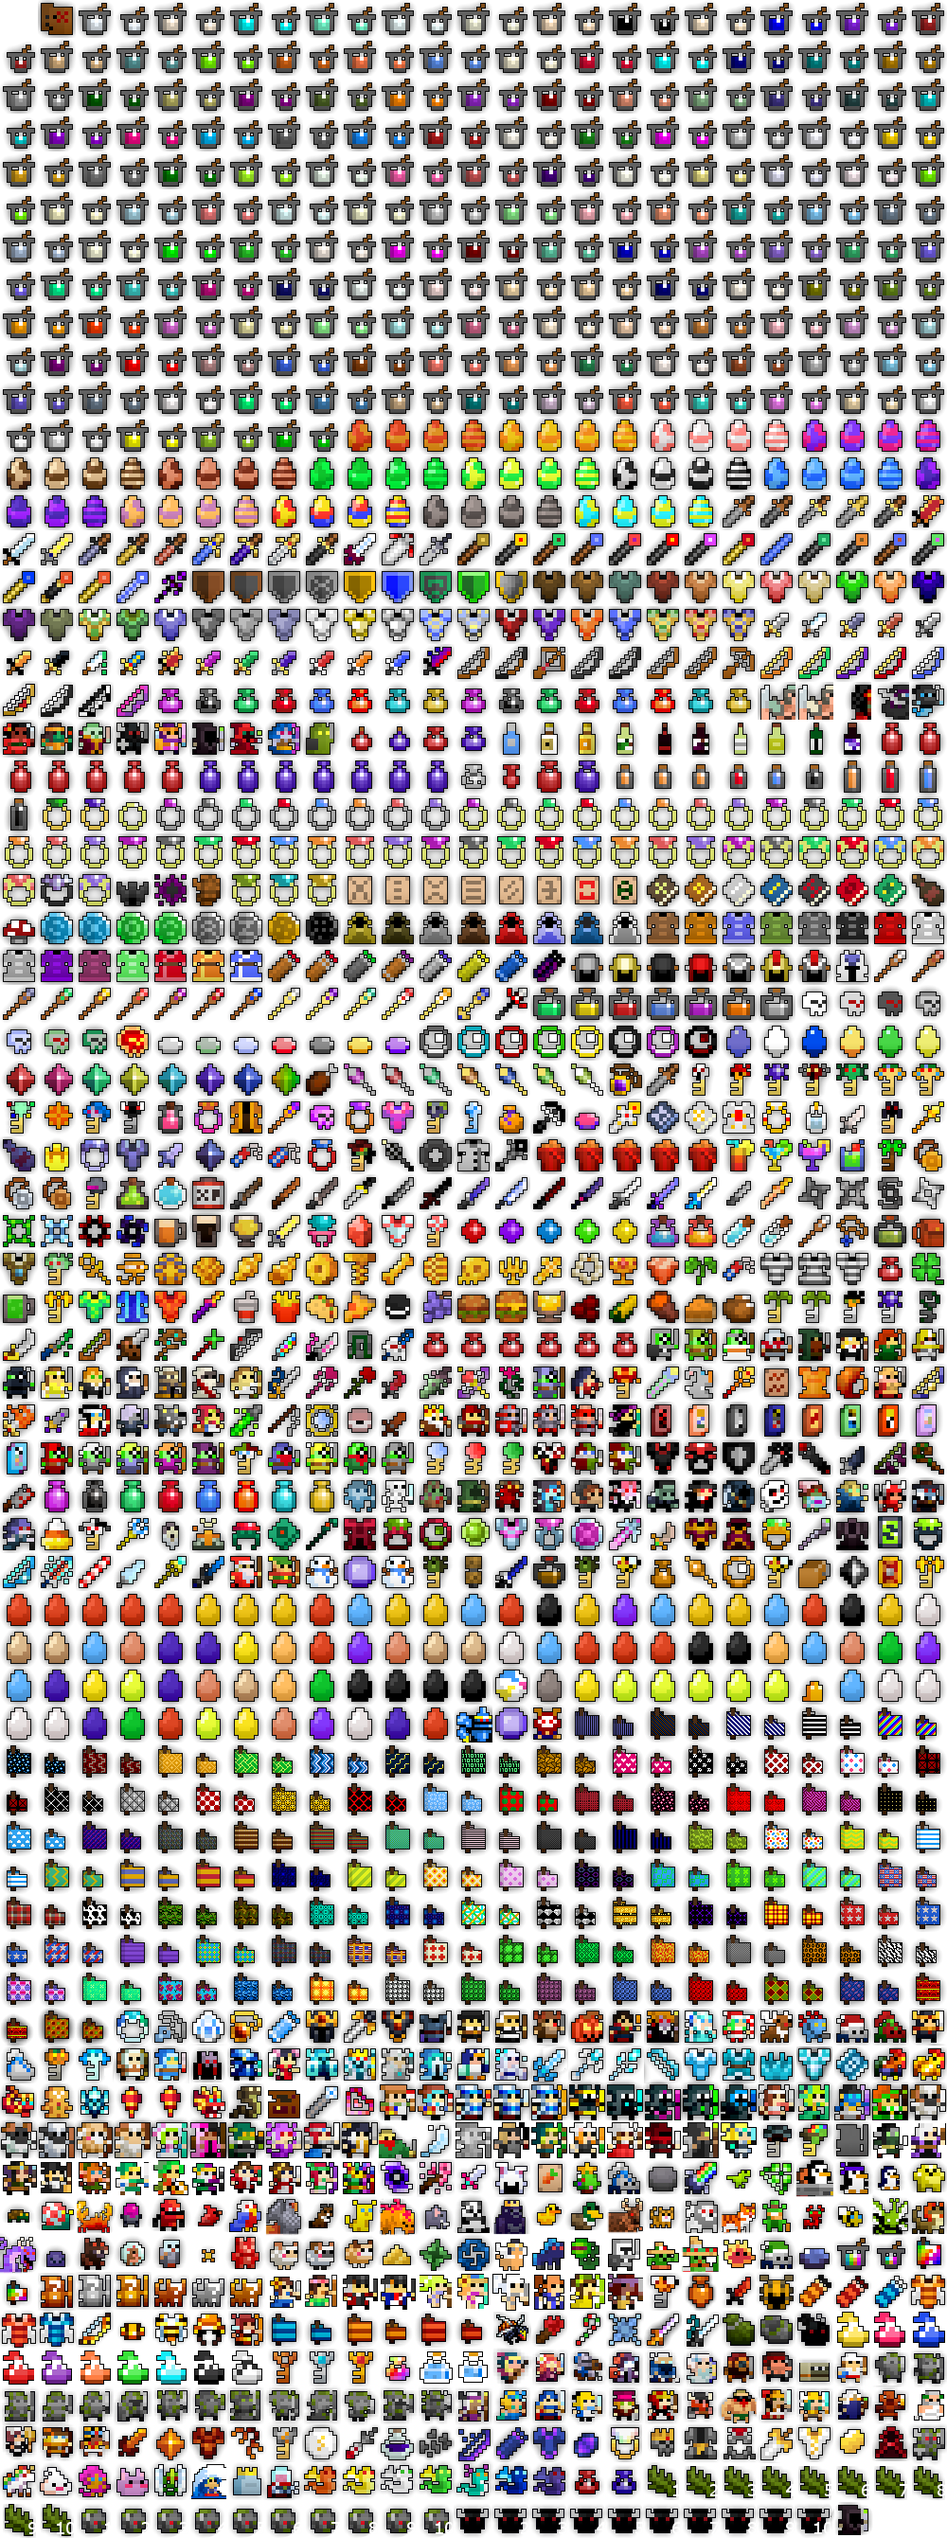
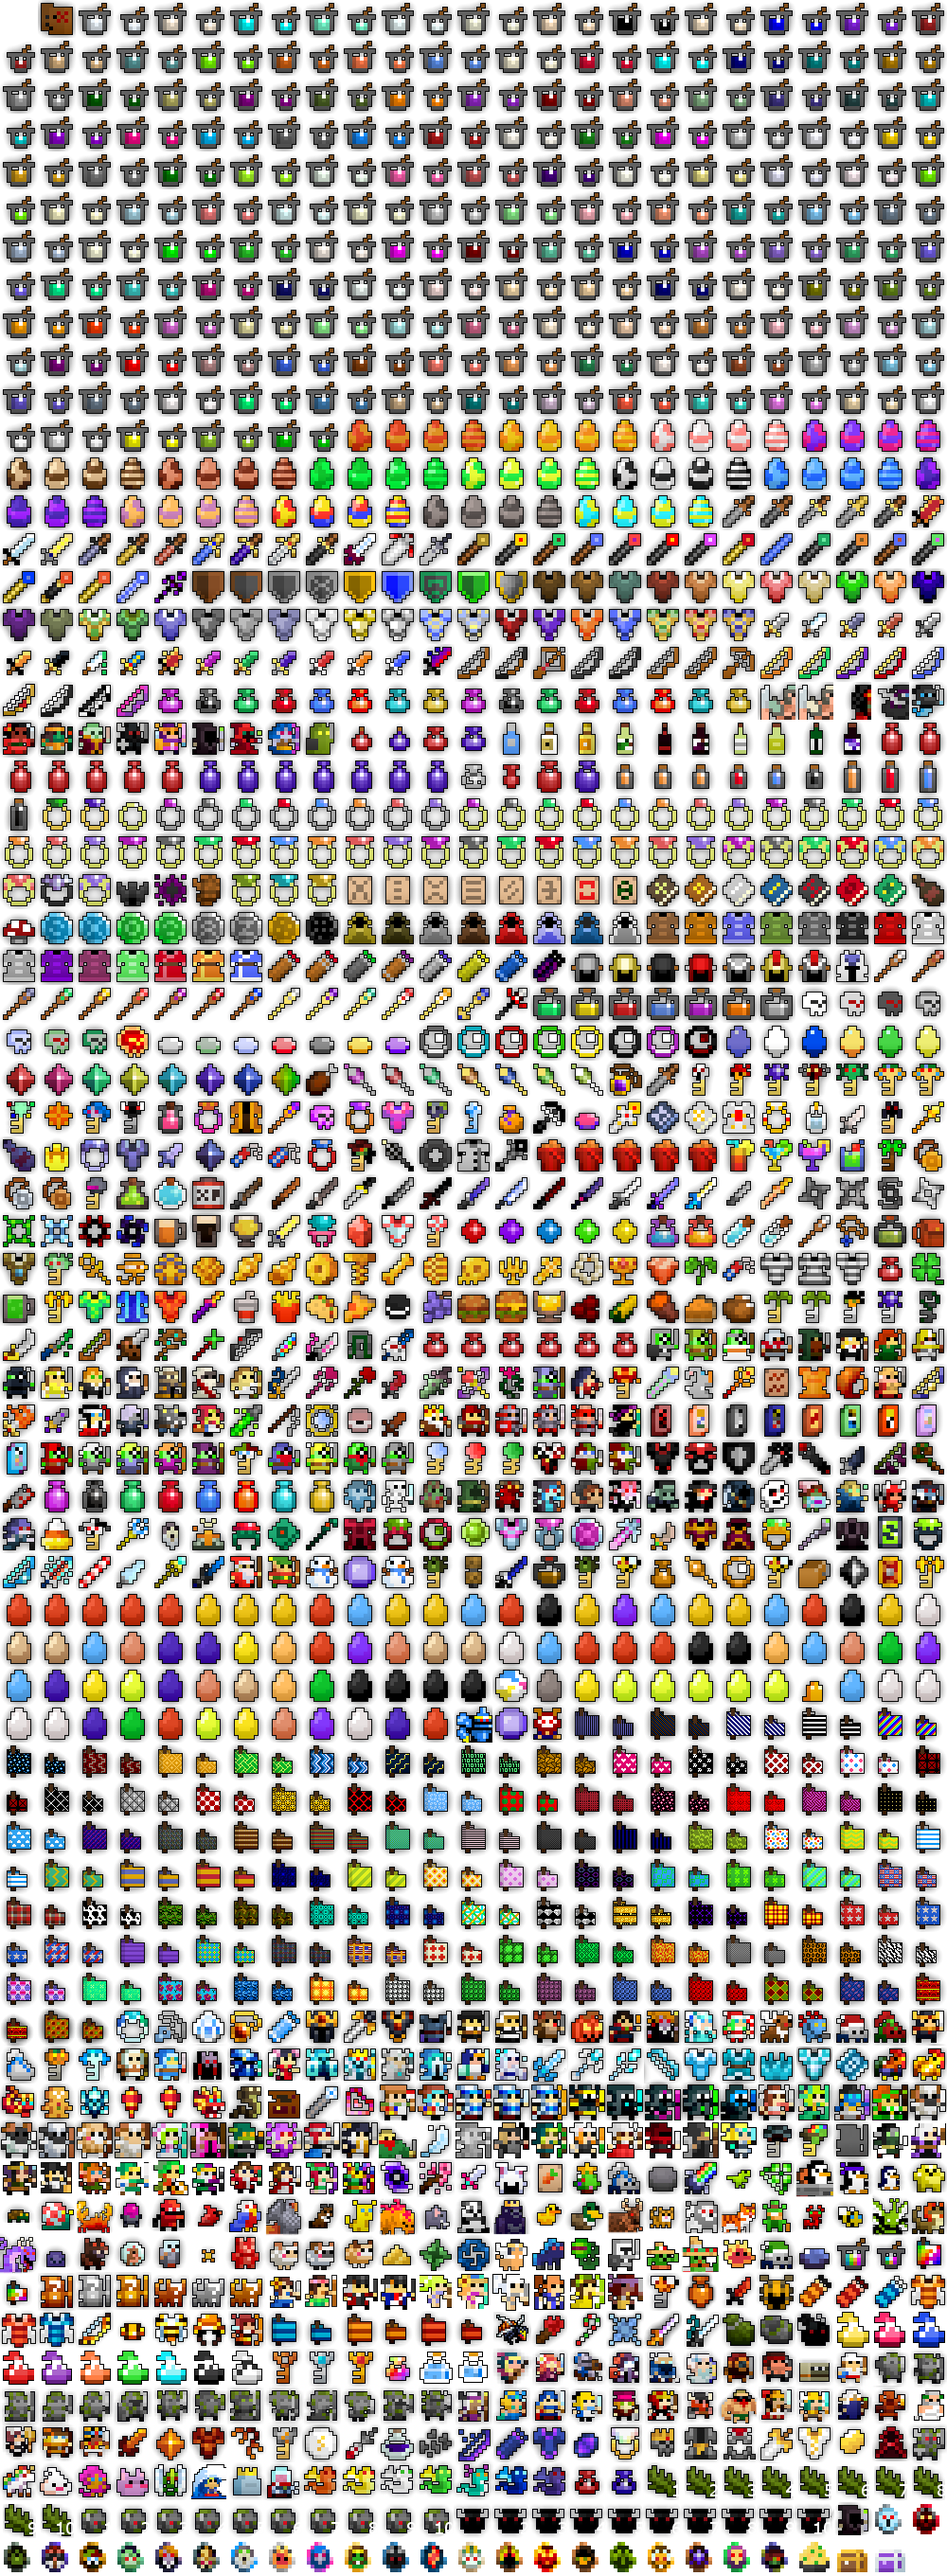
v0.7.6 - ROTMG X17.0.0

diff --git a/lib/constants.js b/lib/constants.js
@@ -1726,37 +1726,63 @@ items = {
     0x4c48: ["Baby Purple Drake Pet Stone", 10, -1, 560, 2600, 0, 2000],
     0x4c4f: ["HP Pot Pet Stone", 10, -1, 600, 2600, 0, 2000],
     0x4c52: ["MP Pot Pet Stone", 10, -1, 640, 2600, 0, 2000],
-    0x99f: ["Moss Token x1", 10, -1, 680, 2600, 0, 0],
-    0x9a0: ["Moss Token x2", 10, -1, 720, 2600, 0, 0],
-    0x9a1: ["Moss Token x3", 10, -1, 760, 2600, 0, 0],
-    0x9a2: ["Moss Token x4", 10, -1, 800, 2600, 0, 0],
-    0x9a3: ["Moss Token x5", 10, -1, 840, 2600, 0, 0],
-    0x9a4: ["Moss Token x6", 10, -1, 880, 2600, 0, 0],
-    0x9a5: ["Moss Token x7", 10, -1, 920, 2600, 0, 0],
-    0x9a6: ["Moss Token x8", 10, -1, 960, 2600, 0, 0],
-    0x9a7: ["Moss Token x9", 10, -1, 0, 2640, 0, 0],
-    0x9a8: ["Moss Token x10", 10, -1, 40, 2640, 0, 0],
-    0x9a9: ["Stone Token x1", 10, -1, 80, 2640, 0, 0],
-    0x9aa: ["Stone Token x2", 10, -1, 120, 2640, 0, 0],
-    0x9ab: ["Stone Token x3", 10, -1, 160, 2640, 0, 0],
-    0x9ac: ["Stone Token x4", 10, -1, 200, 2640, 0, 0],
-    0x9ad: ["Stone Token x5", 10, -1, 240, 2640, 0, 0],
-    0x9ae: ["Stone Token x6", 10, -1, 280, 2640, 0, 0],
-    0x9af: ["Stone Token x7", 10, -1, 320, 2640, 0, 0],
-    0x9b0: ["Stone Token x8", 10, -1, 360, 2640, 0, 0],
-    0x9b1: ["Stone Token x9", 10, -1, 400, 2640, 0, 0],
-    0x9b2: ["Stone Token x10", 10, -1, 440, 2640, 0, 0],
-    0x9b3: ["Oryx Token x1", 10, -1, 480, 2640, 0, 0],
-    0x9b4: ["Oryx Token x2", 10, -1, 520, 2640, 0, 0],
-    0x9b5: ["Oryx Token x3", 10, -1, 560, 2640, 0, 0],
-    0x9b6: ["Oryx Token x4", 10, -1, 600, 2640, 0, 0],
-    0x9b7: ["Oryx Token x5", 10, -1, 640, 2640, 0, 0],
-    0x9b8: ["Oryx Token x6", 10, -1, 680, 2640, 0, 0],
-    0x9b9: ["Oryx Token x7", 10, -1, 720, 2640, 0, 0],
-    0x9ba: ["Oryx Token x8", 10, -1, 760, 2640, 0, 0],
-    0x9bb: ["Oryx Token x9", 10, -1, 800, 2640, 0, 0],
-    0x9bc: ["Oryx Token x10", 10, -1, 840, 2640, 0, 0],
+    0x99f: ["Moss Token x1", 10, -1, 680, 2600, 0, 50],
+    0x9a0: ["Moss Token x2", 10, -1, 720, 2600, 0, 100],
+    0x9a1: ["Moss Token x3", 10, -1, 760, 2600, 0, 150],
+    0x9a2: ["Moss Token x4", 10, -1, 800, 2600, 0, 200],
+    0x9a3: ["Moss Token x5", 10, -1, 840, 2600, 0, 250],
+    0x9a4: ["Moss Token x6", 10, -1, 880, 2600, 0, 300],
+    0x9a5: ["Moss Token x7", 10, -1, 920, 2600, 0, 350],
+    0x9a6: ["Moss Token x8", 10, -1, 960, 2600, 0, 400],
+    0x9a7: ["Moss Token x9", 10, -1, 0, 2640, 0, 450],
+    0x9a8: ["Moss Token x10", 10, -1, 40, 2640, 0, 500],
+    0x9a9: ["Stone Token x1", 10, -1, 80, 2640, 0, 100],
+    0x9aa: ["Stone Token x2", 10, -1, 120, 2640, 0, 200],
+    0x9ab: ["Stone Token x3", 10, -1, 160, 2640, 0, 300],
+    0x9ac: ["Stone Token x4", 10, -1, 200, 2640, 0, 400],
+    0x9ad: ["Stone Token x5", 10, -1, 240, 2640, 0, 500],
+    0x9ae: ["Stone Token x6", 10, -1, 280, 2640, 0, 600],
+    0x9af: ["Stone Token x7", 10, -1, 320, 2640, 0, 700],
+    0x9b0: ["Stone Token x8", 10, -1, 360, 2640, 0, 800],
+    0x9b1: ["Stone Token x9", 10, -1, 400, 2640, 0, 900],
+    0x9b2: ["Stone Token x10", 10, -1, 440, 2640, 0, 1000],
+    0x9b3: ["Oryx Token x1", 10, -1, 480, 2640, 0, 200],
+    0x9b4: ["Oryx Token x2", 10, -1, 520, 2640, 0, 400],
+    0x9b5: ["Oryx Token x3", 10, -1, 560, 2640, 0, 600],
+    0x9b6: ["Oryx Token x4", 10, -1, 600, 2640, 0, 800],
+    0x9b7: ["Oryx Token x5", 10, -1, 640, 2640, 0, 1000],
+    0x9b8: ["Oryx Token x6", 10, -1, 680, 2640, 0, 1200],
+    0x9b9: ["Oryx Token x7", 10, -1, 720, 2640, 0, 1400],
+    0x9ba: ["Oryx Token x8", 10, -1, 760, 2640, 0, 1500],
+    0x9bb: ["Oryx Token x9", 10, -1, 800, 2640, 0, 1800],
+    0x9bc: ["Oryx Token x10", 10, -1, 840, 2640, 0, 2000],
     0x7494: ["Mini Archmage", 10, -1, 880, 2640, 0, 0],
+    0x1e26: ["Mark of Septavius", 10, -1, 920, 2640, 0, 50],
+    0x1e27: ["Mark of Malphas", 10, -1, 960, 2640, 0, 50],
+    0x1e28: ["Mark of Gulpord", 10, -1, 0, 2680, 0, 50],
+    0x1e29: ["Mark of Dr. Terrible", 10, -1, 40, 2680, 0, 50],
+    0x1e2a: ["Mark of the Puppet Master", 10, -1, 80, 2680, 0, 50],
+    0x1e2b: ["Mark of Skuld", 10, -1, 120, 2680, 0, 50],
+    0x1e2c: ["Mark of Ruthven", 10, -1, 160, 2680, 0, 50],
+    0x1e2d: ["Mark of Daichi", 10, -1, 200, 2680, 0, 50],
+    0x1e2e: ["Mark of Esben", 10, -1, 240, 2680, 0, 50],
+    0x1e2f: ["Mark of Limon", 10, -1, 280, 2680, 0, 50],
+    0x1e30: ["Mark of Thessal", 10, -1, 320, 2680, 0, 50],
+    0x1e31: ["Mark of Geb", 10, -1, 360, 2680, 0, 50],
+    0x1e32: ["Mark of Oryx", 10, -1, 400, 2680, 0, 50],
+    0x1e33: ["Mark of Janus", 10, -1, 440, 2680, 0, 50],
+    0x1e34: ["Mark of the Wyvern", 10, -1, 480, 2680, 0, 50],
+    0x1e35: ["Mark of the Forgotten King", 10, -1, 520, 2680, 0, 50],
+    0x1e36: ["Mark of Shaitain", 10, -1, 560, 2680, 0, 50],
+    0x1e37: ["Mark of Bilgewater", 10, -1, 600, 2680, 0, 50],
+    0x1e38: ["Mark of the Megamoth", 10, -1, 640, 2680, 0, 50],
+    0x1e39: ["Mark of the Killer Bee Queen", 10, -1, 680, 2680, 0, 50],
+    0x1e3a: ["Mark of the Son of Arachna", 10, -1, 720, 2680, 0, 50],
+    0x1e3b: ["Mark of Stheno", 10, -1, 760, 2680, 0, 50],
+    0x1e3c: ["Mark of Davy Jones", 10, -1, 800, 2680, 0, 50],
+    0x1e3e: ["Egg Omelette", 10, -1, 840, 2680, 0, 500],
+    0xd8c: ["Quest Chest Item", 10, -1, 880, 2680, 0, 200],
+    0xd8e: ["Epic Quest Chest Item", 10, -1, 920, 2680, 0, 200],
 
 //0xcd5: ["Ivory Wyvern Key", 10, -1, xx, xx, 0, 100],
 //0x0: "(art sprite)"(unknown)

diff --git a/lib/muledump.js b/lib/muledump.js
@@ -1,6 +1,6 @@
 (function($, window) {
 
-var VERSION = '0.7.5';
+var VERSION = '0.7.6';
 
 // version check
 

diff --git a/CHANGELOG.md b/CHANGELOG.md
@@ -1,3 +1,7 @@
+**2017-09-08** version 0.7.6
+
+- X17.0.0 updates added (thanks to [/u/Falecon](https://www.reddit.com/user/Falecon))
+
 **2017-09-07** version 0.7.5
 
 - Export to Imgur, CSV, JSON, and text fixed, and added local save option
